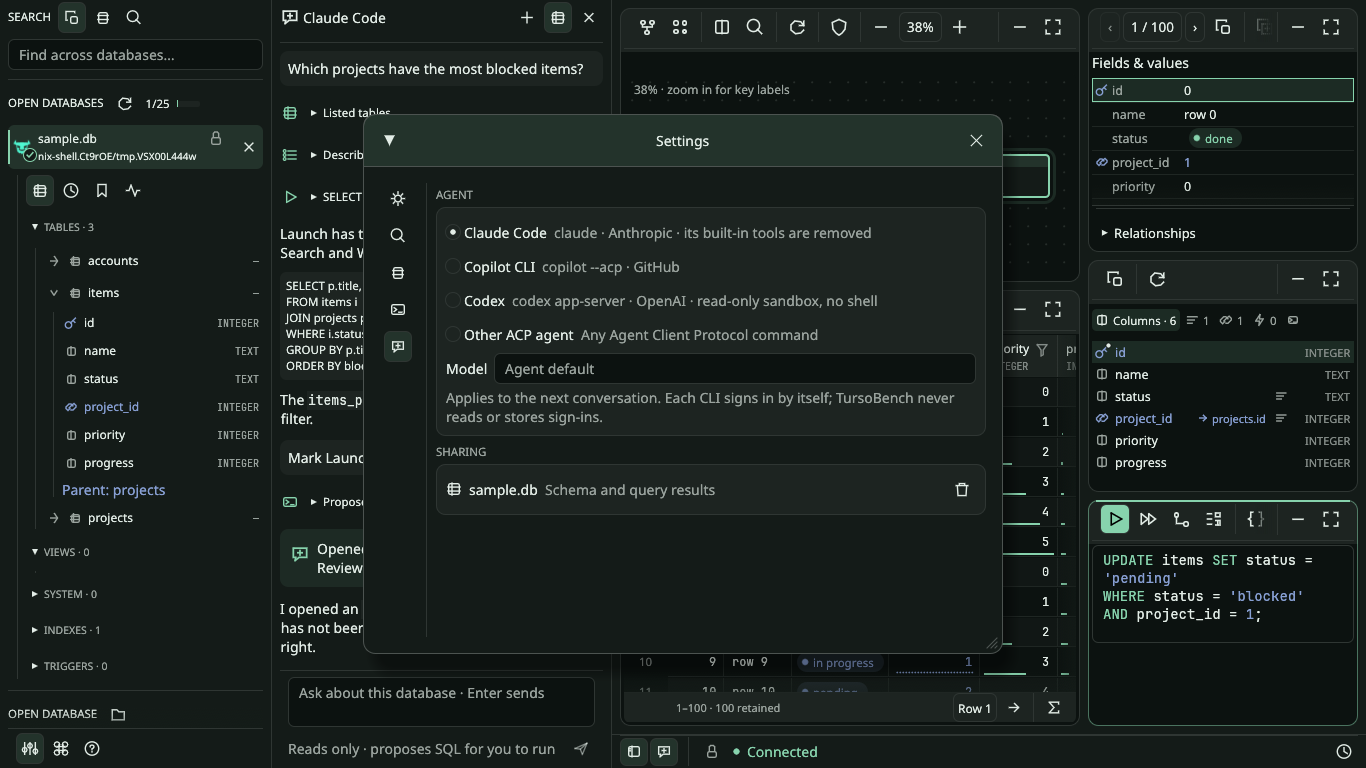
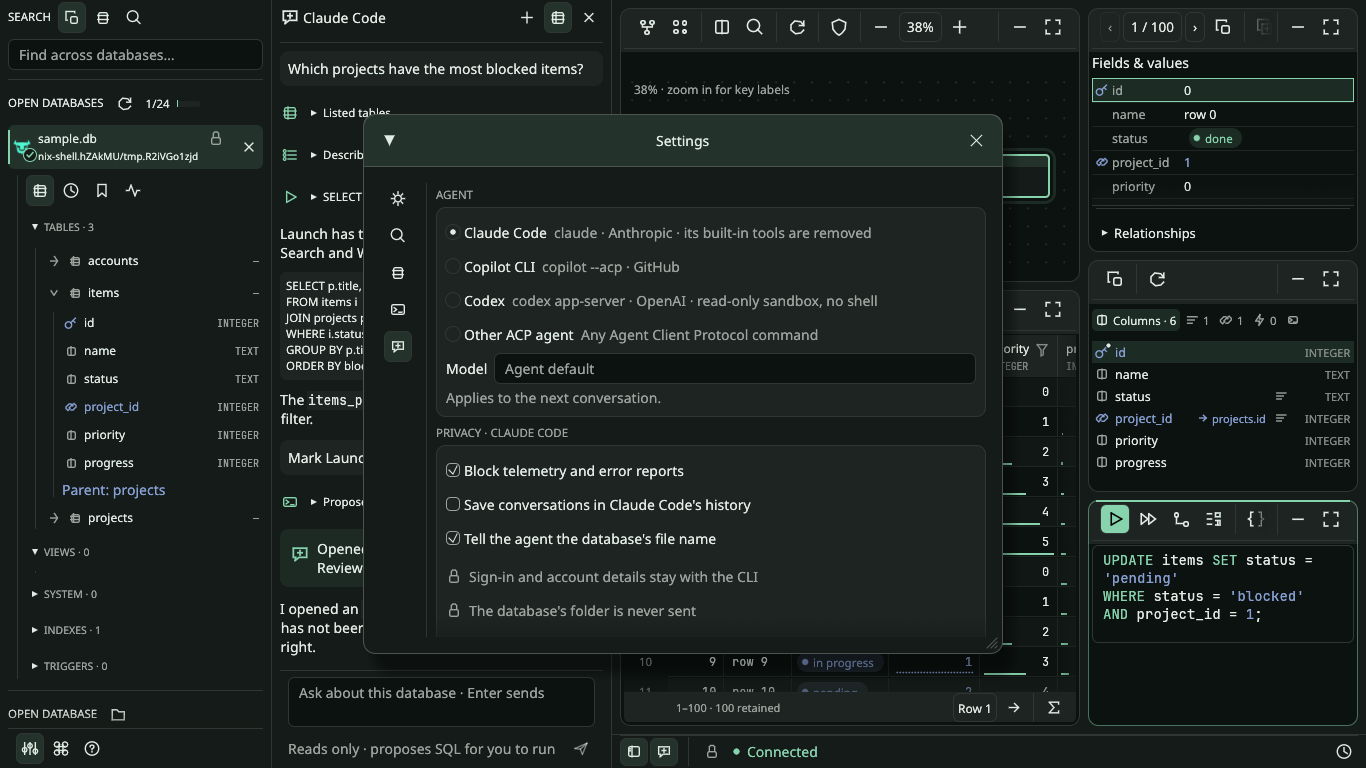
Link to privacy settings and document them
The consent card links to Settings → Assistant, scrolled to the
selected agent's Privacy section; the Agent card no longer repeats the
sign-in promise that the section now states. Fixed promises are exposed
to accessibility with their text.

The assistant contract gains a Privacy section: a per-provider table of
each choice and the exact flags, environment or config overrides behind
it, what a default run writes to disk, and the promises that hold for
every provider. The guide, README, security notes and data formats
describe the choices; a new capture shows Codex's section.

diff --git a/crates/tursobench-ui/src/app/assistant.rs b/crates/tursobench-ui/src/app/assistant.rs
@@ -509,6 +509,21 @@ impl App {
         }
         ui.add_space(8.0);
         ui.weak("Change it later with the sharing icon above.");
+        ui.add_space(4.0);
+        if ui
+            .link("Privacy settings")
+            .on_hover_text("Telemetry, history and what this agent may learn")
+            .clicked()
+        {
+            self.open_assistant_privacy();
+        }
+    }
+
+    /// Settings → Assistant, scrolled to the selected agent's privacy choices.
+    pub(super) fn open_assistant_privacy(&mut self) {
+        self.settings.open = true;
+        self.settings.page = super::settings::Page::Assistant;
+        self.settings.reveal_privacy = true;
     }
 
     fn assistant_input(&mut self, ui: &mut egui::Ui) {
@@ -950,10 +965,7 @@ impl App {
                 });
                 self.setting_response(response);
             });
-            ui.weak(
-                "Applies to the next conversation. Each CLI signs in by itself; TursoBench \
-                 never reads or stores sign-ins.",
-            );
+            ui.weak("Applies to the next conversation.");
         });
         self.assistant_privacy(ui);
         super::panels::section(ui, "Sharing", |ui| {
@@ -1078,6 +1090,9 @@ impl App {
         };
         let copy = privacy_copy(provider);
         let title = format!("Privacy · {name}");
+        if std::mem::take(&mut self.settings.reveal_privacy) {
+            ui.scroll_to_cursor(Some(egui::Align::TOP));
+        }
         super::panels::section(ui, &title, |ui| {
             let mut changed = false;
             let mut privacy = self.preferences.assistant.privacy.of(provider);

diff --git a/crates/tursobench-ui/src/app/interaction_tests/assistant.rs b/crates/tursobench-ui/src/app/interaction_tests/assistant.rs
@@ -362,3 +362,27 @@ fn privacy_is_chosen_per_provider_and_reaches_the_agent() {
     assert!(log.contains("a database open"), "{log}");
     app.close();
 }
+
+#[test]
+fn the_consent_card_links_to_the_agents_privacy_settings() {
+    let (dir, ctx, mut app) = fixture(&["CREATE TABLE t(id INTEGER PRIMARY KEY)"], false);
+    runtime_dir(&dir);
+    app.preferences.panels.assistant = true;
+    let output = frame_at(&mut app, &ctx, SIZE, vec![]);
+    click(
+        &mut app,
+        &ctx,
+        control(&output, "Privacy settings").center(),
+    );
+    assert!(app.settings.open);
+    assert_eq!(app.settings.page, crate::app::settings::Page::Assistant);
+    for _ in 0..3 {
+        frame_at(&mut app, &ctx, SIZE, vec![]);
+    }
+    let output = frame_at(&mut app, &ctx, SIZE, vec![]);
+    // Scrolled so the switches and the promises below them are in view.
+    let switch = control(&output, "Block telemetry and error reports");
+    assert!(switch.top() > 0.0 && switch.bottom() < SIZE.y);
+    assert!(labelled(&output, "The database's folder is never sent"));
+    app.close();
+}

diff --git a/crates/tursobench-ui/src/app/smoke/assistant.rs b/crates/tursobench-ui/src/app/smoke/assistant.rs
@@ -14,6 +14,7 @@ const SCENES: &[&str] = &[
     "assistant-light.png",
     "panels-hidden.png",
     "assistant-settings.png",
+    "assistant-privacy.png",
 ];
 
 impl App {
@@ -82,9 +83,13 @@ impl App {
                 self.preferences.panels.sidebar = false;
                 self.preferences.panels.assistant = false;
             }
-            _ => {
+            5 => {
                 self.settings.open = true;
                 self.settings.page = crate::app::settings::Page::Assistant;
+            }
+            _ => {
+                self.preferences.assistant.provider = crate::storage::Provider::Codex;
+                self.open_assistant_privacy();
             }
         }
     }

diff --git a/crates/tursobench-ui/src/app/settings.rs b/crates/tursobench-ui/src/app/settings.rs
@@ -21,6 +21,8 @@ pub(super) enum Page {
 pub(super) struct State {
     pub open: bool,
     pub page: Page,
+    /// Scroll the assistant page to its privacy section on the next frame.
+    pub reveal_privacy: bool,
     dirty: bool,
     displayed_font: Option<u16>,
 }

diff --git a/contracts/assistant.md b/contracts/assistant.md
@@ -20,15 +20,15 @@ names the CLI's own sign-in command for the user to run in a terminal.
 
 Claude Code starts with `--restricted --tools ""` (no built-in tools),
 `--strict-mcp-config` with only TursoBench's server, `--allowedTools` naming only
-TursoBench's tools, `--disable-slash-commands`, `--no-session-persistence` and
-`--system-prompt`. It does not use `--bare`, which skips the subscription
-sign-in. The working directory of every agent is TursoBench's private runtime
+TursoBench's tools, `--disable-slash-commands` and `--system-prompt`; history and
+telemetry follow the Privacy choices below. It does not use `--bare`, which skips
+the subscription sign-in. The working directory of every agent is TursoBench's private runtime
 directory, not the database's folder.
 
 Codex starts as `codex app-server` with its shell, unified exec, apps, plugins,
-browser, computer use, image tools, helper agents, goals, hooks and web search
-switched off. The thread is ephemeral (nothing is saved to Codex's history) and
-runs in Codex's `read-only` sandbox with the `untrusted` approval policy.
+browser, computer use, image tools, helper agents, goals, hooks, shell snapshots
+and web search switched off. The thread runs in Codex's `read-only` sandbox with
+the `untrusted` approval policy; whether it is saved follows the Privacy choices.
 TursoBench's instructions replace Codex's base instructions, and TursoBench's
 server replaces every MCP server in the user's Codex configuration. The relay
 and its token travel in `thread/start`, not on the command line. Every command,
@@ -55,8 +55,37 @@ Nothing is sent until the user chooses, per database (by absolute path), either:
 The choice persists in application preferences, at most 50 databases. The
 header toggles it and the change applies to a running agent at once; the next
 prompt tells the agent. Settings → Assistant lists every choice and can forget
-one, which also ends that database's conversation. Only the database's file name,
-not its path, appears in the agent's instructions.
+one, which also ends that database's conversation.
+
+## Privacy
+
+Settings → Assistant has a Privacy section for the selected agent. Each provider
+keeps its own choices, and every default is the private one. They apply to the
+next conversation.
+
+| Choice | Claude Code | Codex | Copilot CLI, other ACP |
+| --- | --- | --- | --- |
+| Block telemetry and error reports (on) | `CLAUDE_CODE_DISABLE_NONESSENTIAL_TRAFFIC`, `DISABLE_TELEMETRY`, `DISABLE_ERROR_REPORTING` | `analytics.enabled=false`, `otel.exporter`, `otel.metrics_exporter` and `otel.trace_exporter` = `none`, `feedback.enabled=false` | Follows the agent's own settings |
+| Save conversations in the CLI's history (off) | Off: `--no-session-persistence` | Off: ephemeral thread, `history.persistence="none"` | Follows the agent's own settings |
+| Tell the agent the database's file name (on) | Off: the instructions say only that a database is open | Same | Same |
+
+The Codex overrides are `-c` flags for that process only; `config.toml` is not
+changed. With the defaults, a Codex conversation writes only Codex's model cache
+to `~/.codex` (its shell snapshot feature is also off), and Claude Code writes no
+session transcript.
+
+These hold for every provider and are listed in the section as fixed rows:
+
+- Sign-in and account details (email, plan, tokens) stay with the CLI. TursoBench
+  opens no credential files and calls no login, account, token or `authenticate`
+  method.
+- The database's folder is never sent. Queries that name
+  `pragma_database_list`, which returns the full path, are refused.
+- Nothing is sent until the database's sharing is chosen.
+- The agent's own tools: none for Claude Code; for Codex no shell or web search
+  in a read-only sandbox; ACP agents keep theirs (see below).
+
+The consent card links to the section.
 
 ## Tools
 
@@ -67,7 +96,7 @@ The tool server speaks MCP (newline-delimited JSON-RPC: `initialize`, `ping`,
 | --- | --- |
 | `list_tables` | Tables and views, excluding `sqlite_*` and `__turso_internal_*`; at most 2,000 |
 | `describe_table` | Columns, primary-key order, defaults, indexes, foreign keys and DDL up to 16 KiB |
-| `run_query` | Refused unless results are shared; otherwise one read, at most 200 rows / 256 KiB |
+| `run_query` | Refused unless results are shared; otherwise one read, at most 200 rows / 256 KiB; never `pragma_database_list` |
 | `propose_sql` | Opens the SQL, up to 256 KiB, in a new SQL editor tile without running it |
 
 Every tool is annotated `readOnlyHint`, so agents that honour it (Codex) call

diff --git a/SECURITY.md b/SECURITY.md
@@ -40,8 +40,11 @@ security reporting process; mention the TursoBench impact in a private report he
   roll back writes; engine memory use is not bounded by the result display limits.
 - The assistant sends what the agent reads to that agent's vendor, under your
   own plan and the vendor's terms. Share only the schema for sensitive data.
-  TursoBench never handles agent sign-ins. Its own tools are read-only, but ACP
-  agents keep their vendor's tools; see the [assistant contract](contracts/assistant.md).
+  TursoBench never handles agent sign-ins or account details, and never sends
+  the database's folder. Settings → Assistant → Privacy blocks Claude Code's and
+  Codex's telemetry and history by default. TursoBench's tools are read-only; ACP
+  agents keep their vendor's tools and settings; see the
+  [assistant contract](contracts/assistant.md).
 - SQL history stores literals. Remove sensitive history and sanitize exports,
   screenshots and bug reports. Query parameters are not persisted.
 

diff --git a/docs/guide.md b/docs/guide.md
@@ -286,6 +286,13 @@ The agent can list tables, describe one, run one read-only SELECT of at most
 in a reply, opens in a new SQL editor tile without running; you review and run it.
 Enter sends, Shift Enter adds a line and Stop interrupts the turn.
 
+Settings → Assistant → Privacy holds each agent's own privacy choices, all
+private by default: telemetry and error reports blocked, nothing saved to the
+CLI's history, and whether the agent may learn the database's file name (never
+its folder). It also lists what always holds, such as your sign-in and account
+details never reaching TursoBench. Copilot CLI and other ACP agents keep their
+own telemetry and history settings. The consent card links there.
+
 ![Assistant beside the sidebar with a proposed UPDATE in the SQL tile.](assets/ui/assistant/assistant-conversation.png)
 
 See the [assistant contract](../contracts/assistant.md) for what is sent, the

diff --git a/README.md b/README.md
@@ -130,7 +130,10 @@ CLI, Codex or another Agent Client Protocol agent. TursoBench never handles your
 sign-in or an API key. Each database asks once whether to share the schema only
 or also query results. The agent reads through a separate `query_only`
 connection and cannot write; it proposes SQL that opens in an editor tile for you
-to run. Ctrl B and Ctrl I hide or show the sidebar and the assistant independently.
+to run. Settings → Assistant → Privacy sets, per agent, whether its CLI may send
+telemetry, keep the conversation in its history or learn the database's file
+name; all are off by default except the file name. Ctrl B and Ctrl I hide or
+show the sidebar and the assistant independently.
 
 ![Assistant beside the sidebar with a proposed UPDATE in the SQL tile.](docs/assets/ui/assistant/assistant-conversation.png)
 

diff --git a/docs/data-formats.md b/docs/data-formats.md
@@ -142,7 +142,9 @@ only). `assistant` stores the chosen agent (`provider`: `Claude`, `Copilot`,
 `Codex` or `Custom`), a `custom_command` of up to 4096 bytes, a `model` of up to
 200 bytes, and `sharing`: `Schema` or `Rows` per absolute database path, bounded
 to 50 paths / 4096 bytes per path. A missing database means the user has not
-chosen yet. Conversations are never stored. Grid column presentation and inspected/filter values
+chosen yet. `privacy` holds `claude`, `copilot`, `codex` and `custom`, each with
+`telemetry_off` (default true), `keep_history` (default false) and
+`share_file_name` (default true). Conversations are never stored. Grid column presentation and inspected/filter values
 are not persisted. Table retention uses a 200-row minimum and reserves 100 rows
 in flight; SQL's exact row setting is unchanged.
 

diff --git a/docs/assets/ui/README.md b/docs/assets/ui/README.md
@@ -14,7 +14,8 @@ the machine.
 | [Without sidebar](assistant/assistant-without-sidebar.png) | Sidebar hidden, assistant shown. |
 | [Light](assistant/assistant-light.png) | The same in the light theme. |
 | [Both hidden](assistant/panels-hidden.png) | The workspace takes the full width; the status-bar toggles remain. |
-| [Settings](assistant/assistant-settings.png) | Agent choice, model and each database's sharing choice. |
+| [Settings](assistant/assistant-settings.png) | Agent choice, model, Claude Code's privacy choices and each database's sharing choice. |
+| [Privacy](assistant/assistant-privacy.png) | Codex's privacy choices and fixed promises, opened from the consent card's link. |
 
 Reproduce with:
 
